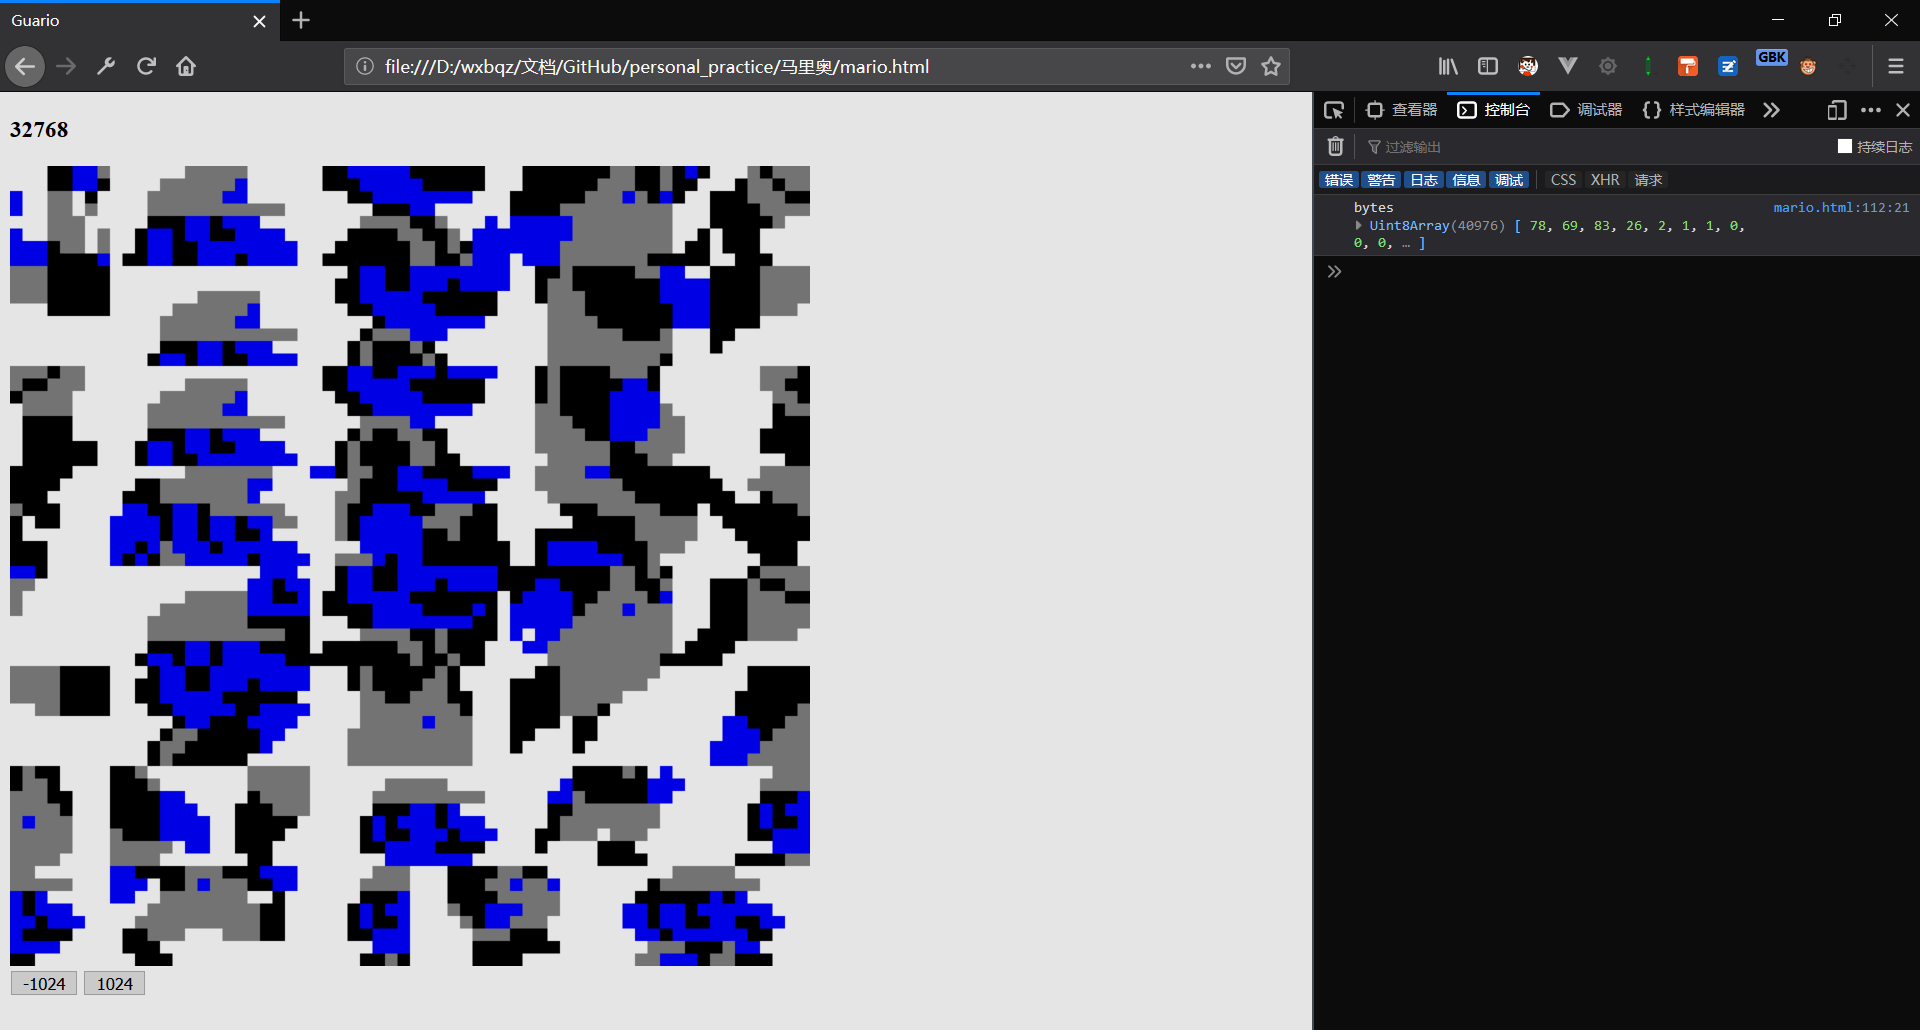
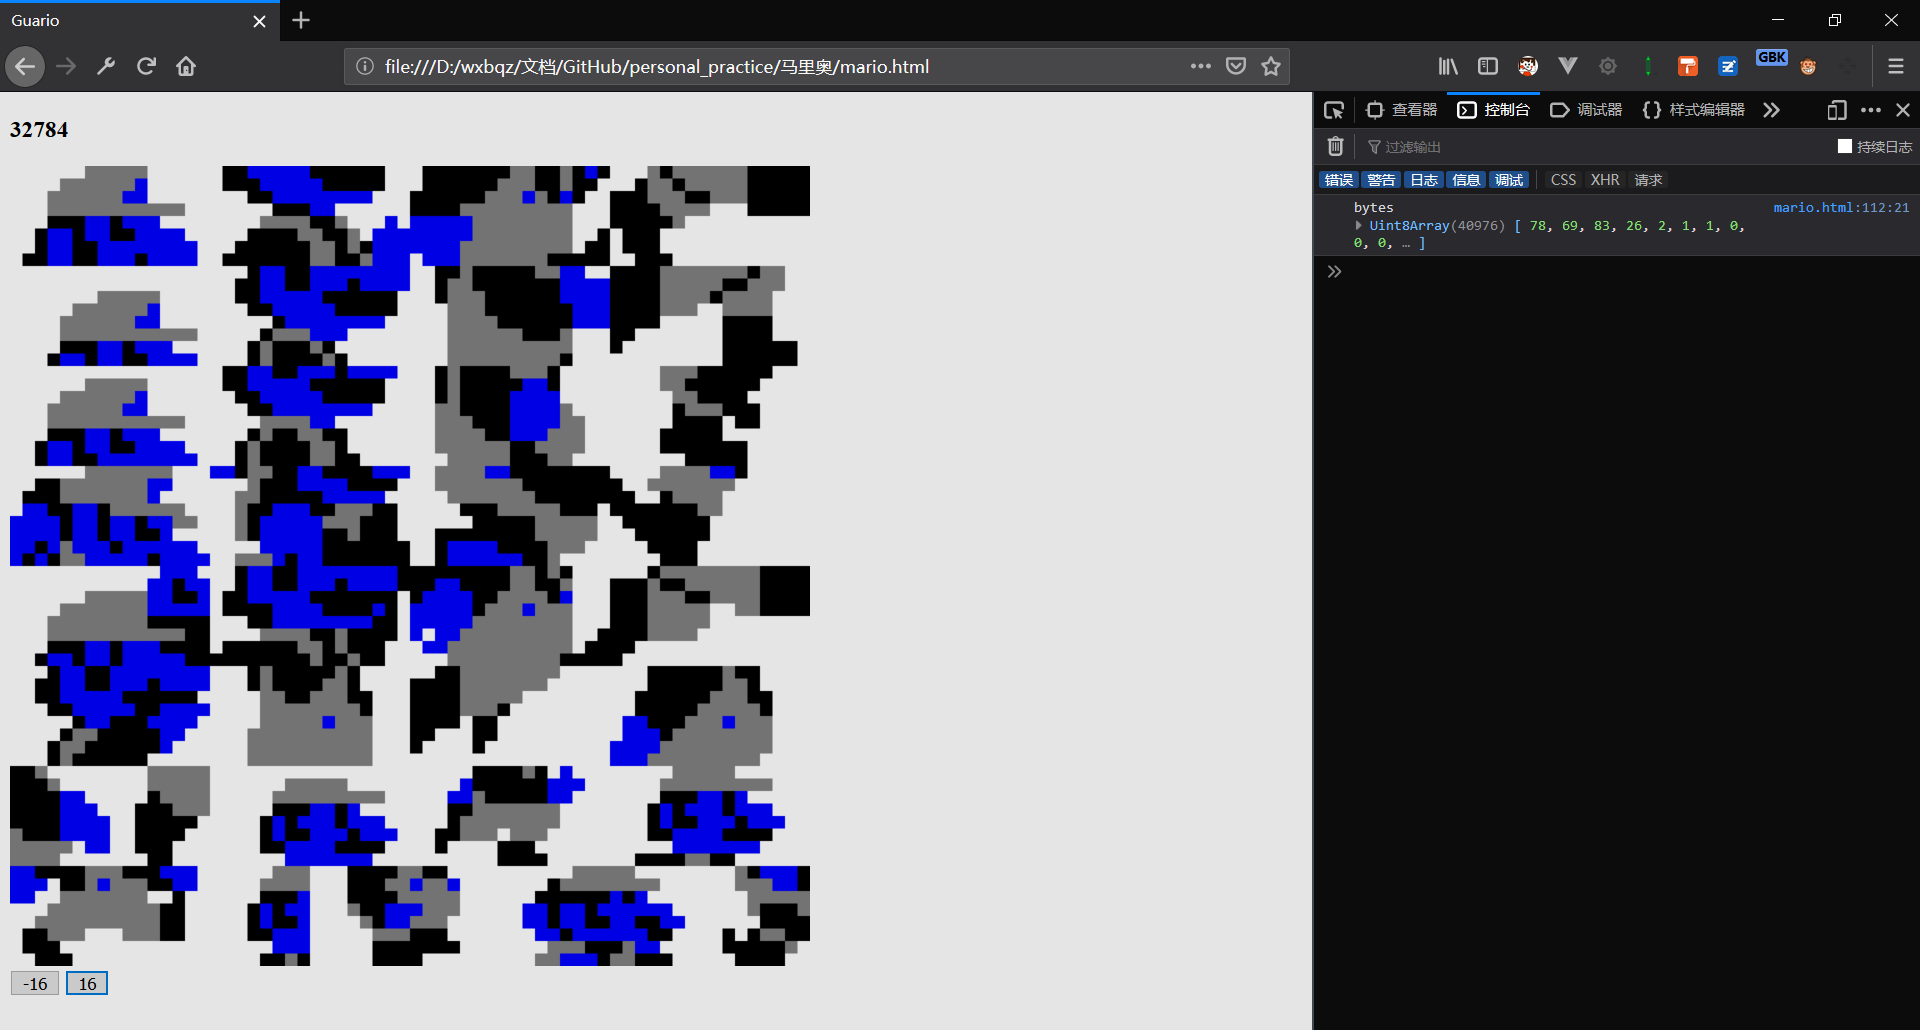
图片

Changed region(s): [[0.0, 0.1553, 0.4375, 0.9631]]

diff --git a/马里奥/mario.html b/马里奥/mario.html
@@ -14,6 +14,8 @@
     <div class="gua-controls">
         <button data-action="change_offset" data-offset="-1024">-1024</button>
         <button data-action="change_offset" data-offset="1024">1024</button>
+        <button data-action="change_offset" data-offset="-16">-16</button>
+        <button data-action="change_offset" data-offset="16">16</button>
     </div>
     <script>
         /*
@@ -38,9 +40,9 @@
         const drawBlock = (context, data, x, y, pixeWidth) => {
             const colors = [
                 'white',
-                'gray',
-                'blue',
-                'black',
+                'rgb(188, 25, 0)',
+                'rgb(247, 180, 0)',
+                'rgb(91, 106, 0)',
             ]
 
             let w = pixeWidth
@@ -104,7 +106,7 @@
             })
         }
         const _main = () => {
-            window.offset = 0
+            window.offset = 32784
             let request = {
                 url: 'mario.nes',
                 callback(r) {
